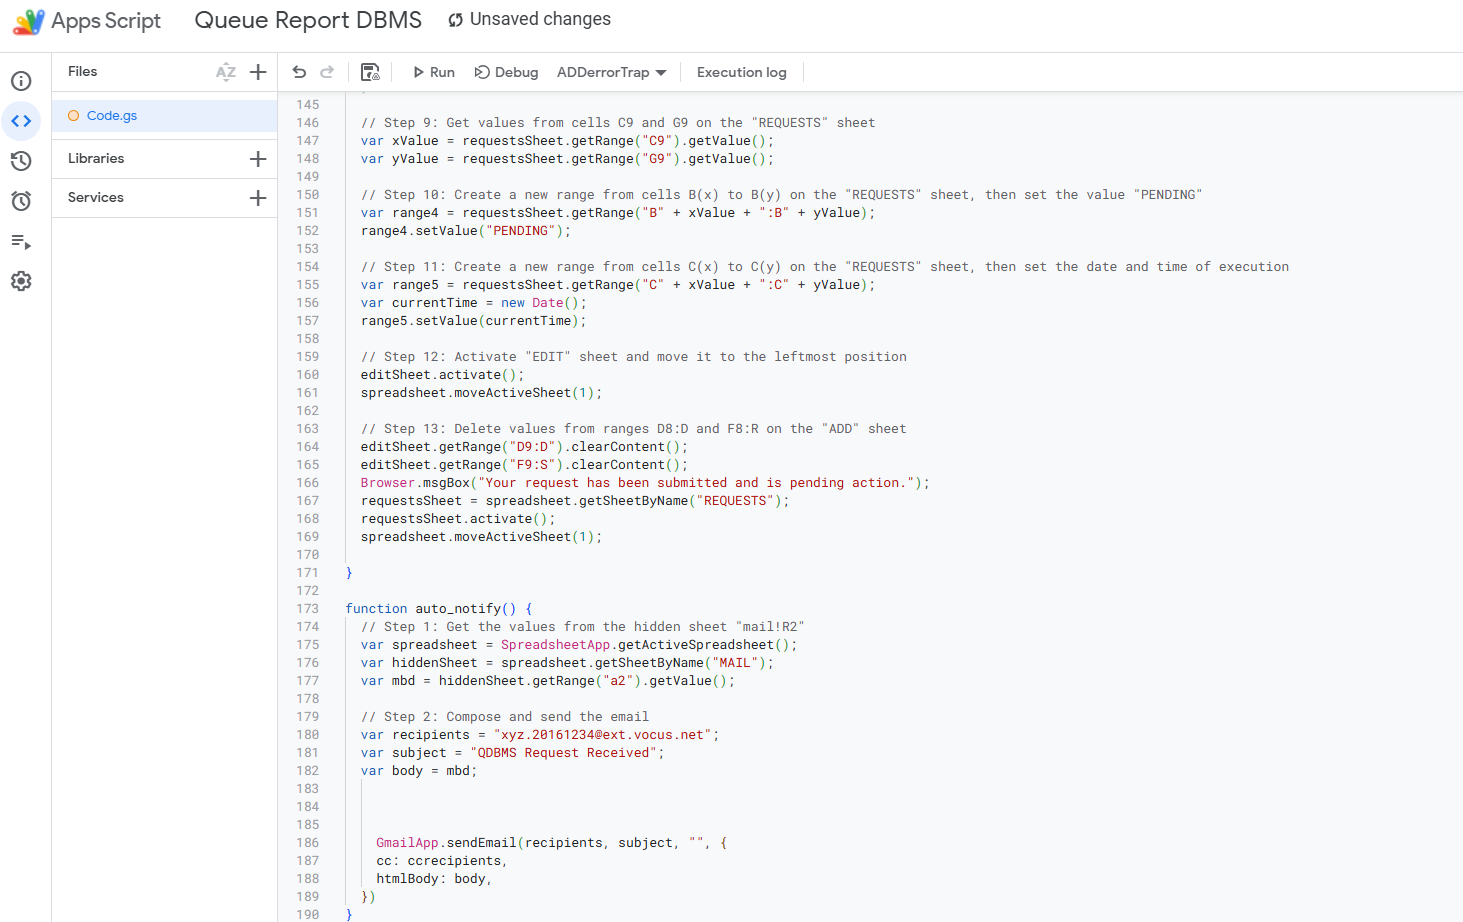
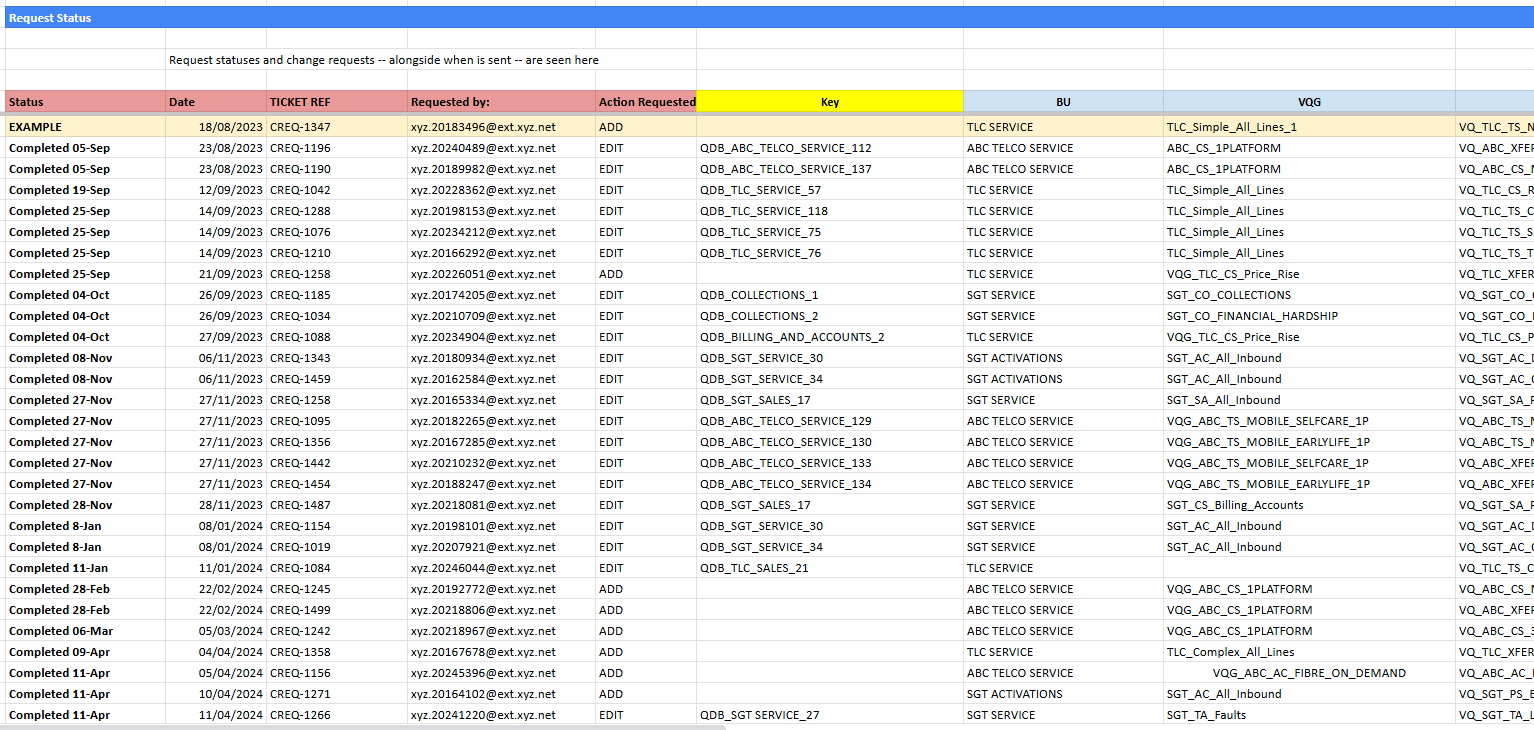
Apps Script Reports: remove two code screenshots showing client email domains; renumber remaining shots
Removes oversight_3 and dbms_3, renames oversight_4 -> oversight_3 and dbms_4 -> dbms_3, and drops the two entries from appscript.ts. Forms Maintenance and DBMS now have three screenshots each.

Claude-Session: https://claude.ai/code/session_017exb2GpwCaDhTB6KvCmh4h

Changed region(s): [[0.0, 0.0, 1.0, 1.0], [0.7382, 0.7836, 0.9228, 0.9945]]

diff --git a/src/data/appscript.ts b/src/data/appscript.ts
@@ -56,8 +56,7 @@ export const APPSCRIPT: AppScriptProject[] = [
     shots: [
       { src: '/project-photos/projects_appscript_3_oversight_1.png', caption: 'Automated workflow diagram for Google Forms response monitoring and maintenance' },
       { src: '/project-photos/projects_appscript_3_oversight_2.png', caption: 'Apps Script function for retrieving Google Forms response count and timestamp tracking' },
-      { src: '/project-photos/projects_appscript_3_oversight_3.png', caption: 'Automated response clearing logic with email notification system for form oversight' },
-      { src: '/project-photos/projects_appscript_3_oversight_4.png', caption: 'Time-based triggers configuration for automated form monitoring and maintenance' },
+      { src: '/project-photos/projects_appscript_3_oversight_3.png', caption: 'Time-based triggers configuration for automated form monitoring and maintenance' },
     ],
   },
   {
@@ -68,8 +67,7 @@ export const APPSCRIPT: AppScriptProject[] = [
     shots: [
       { src: '/project-photos/projects_appscript_4_dbms_1.png', caption: 'Apps Script function for database error handling and input validation with automated notification system' },
       { src: '/project-photos/projects_appscript_4_dbms_2.png', caption: 'Database management workflow showing data extraction, validation, and automated email population for change requests' },
-      { src: '/project-photos/projects_appscript_4_dbms_3.png', caption: 'Request processing automation with status tracking, range manipulation, and email notification system for database updates' },
-      { src: '/project-photos/projects_appscript_4_dbms_4.png', caption: 'Version control tracking spreadsheet showing request status, dates, ticket references, and change history for database management' },
+      { src: '/project-photos/projects_appscript_4_dbms_3.png', caption: 'Version control tracking spreadsheet showing request status, dates, ticket references, and change history for database management' },
     ],
   },
 ]
